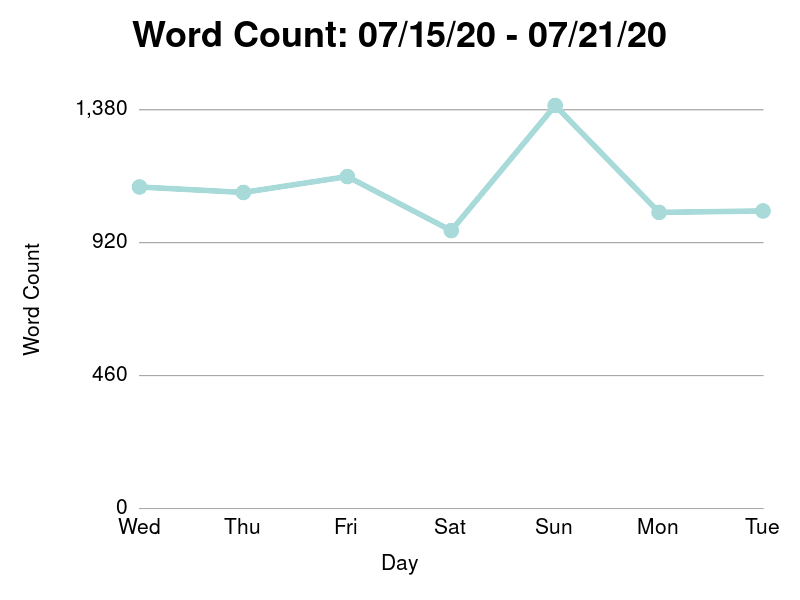
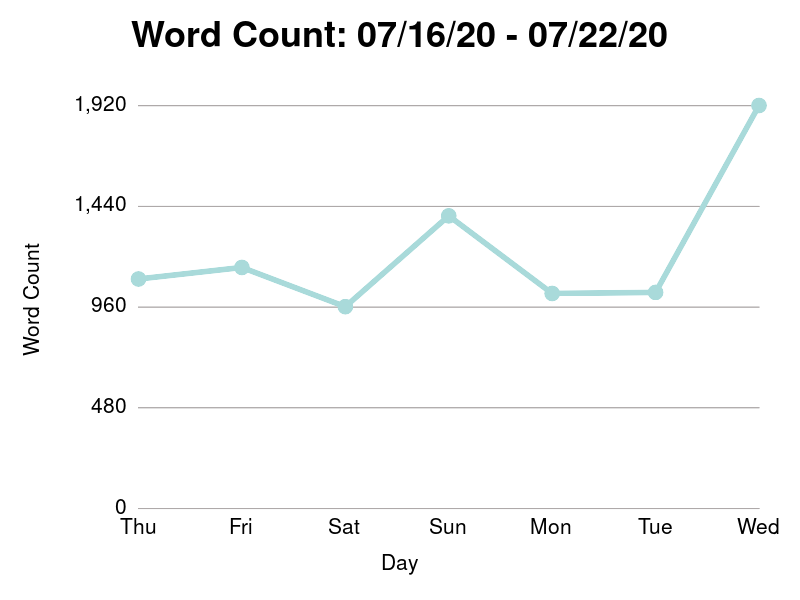
POST

diff --git a/_posts/2020-07-22-2020-07-22.html.md b/_posts/2020-07-22-2020-07-22.html.md
@@ -1,0 +1,228 @@
+---
+title: quiet time, marinade, and the last temptation of christ
+image: posts/2020-07-22.jpg
+---
+
+Dear Journal,
+
+Good morning, everyone.  How are your mosquito bites feeling today?
+That's how Rodney greeted me this morning, and even if mosquitos
+aren't a pressing problem for you, I still think that's just a nice
+thing to ask somebody.  Mosquitos can really put a damper on your day.
+
+Last night during a Zoom hangout with my family, Rodney hid on the bed
+underneath a blanket.  "Do you want to say 'hi' to Alice, dude?" I
+asked, expecting Rodney to come bouncing over to my computer.
+
+"No," said a small, blanketed voice.  "I need a lil' bit of quiet
+time."
+
+Later while putting him to bed, I used our usual round of evening
+questions to check up on his mosquito bites.  "Are your mosquito bites
+hot, or cold?" I asked, sticking to kid-friendly sensation questions.
+
+"Um..." said Rodney, pondering.  "Lil bit... pretty warm, I think," he
+said.
+
+"How do mosquito bites make you feel?" I asked.
+
+Rodney took much less time to field that question.  "Pretty grumpy,"
+he said.  I wasn't expecting such a succinct answer.
+
+"You feel grumpy?" I asked.  "Oh dude, is that why you wanted quiet
+time?"  Rodney nodded slowly with sad eyes.  We exchanged a long hug.
+
+In times like these, it's important to remember to ask for quiet time
+when you need it.  You can't move at the same speed every day.
+Sometimes you need a little extra solitude to tend to your mosquito
+bites, whatever form they may take.
+
+It's a beautiful day, isn't it?  The sun feels bright and warm today,
+and I feel like attacking a long TODO list.  Not to brag or anything,
+but I just did my own laundry, and I think the clean smell of a fresh
+new outfit is putting me in a mood.
+
+_Sip_.  We had a good day yesterday.  Marissa began the undertaking of
+cleaning our outside windows - undoubtedly the reason why it feels
+brighter here in our living room.  Rodney and I measured and trimmed
+replacement wood slats which will be installed in our backyard fence.
+We ran errands, took a nap, and finished things off with a big fajita
+dinner.
+
+And I learned something important yesterday while making fajitas.
+Even a forty-five minute marinade is better than no marinade at all.
+Being a last minute meal planner, I rarely leave myself with enough
+time to leave things in the fridge for four hours or start a meal the
+night before.  But since we have already made fajitas a few times this
+summer and I was in the mood to experiment, I tossed the sirloin steak
+in a plastic bag with olive oil, lime juice, garlic, cilantro, and
+other seasoning.
+
+I had my doubts.  I wasn't even planning on telling Marissa that I had
+tweaked one of her favorite recipes, but the difference was
+undeniable.  The meat was more tender, and the flavors were more
+thoroughly incorporated.  There might be something to this whole
+marinade thing after all.  Evidently, the fact that humans have
+probably marinating meat since the dawn of our civilization wasn't
+enough for me.  Being a millennial, I had to prove it to myself.
+
+We put Rodney to bed, muscled through some nightly quarantine
+workouts, then settled into the couch for movie night.  Last night we
+finished _The Last Temptation of Christ_, and _boy_ do I have some
+thoughts.
+
+Let me start off by saying that I had no idea what this movie was
+about.  In all honesty, I picked this movie expecting it to be a
+straight-forward Jesus biopic with maybe a tinge of weirdness,
+accounting for the Willem Dafoe effect.
+
+The film opens with large white text on a black screen - "This account
+is not based on the gospels, but a work of fiction exploring the life
+of Christ".  It may as well have also said _buckle up_.
+
+The movie wastes no time adding unsettling fictional elements to the
+life of Christ, opening with an anguished Jesus trying to live his
+life as a carpenter and deal with the voices he hears.  His close
+friend Judas berates him for making crosses for the Romans.  Jesus is
+wrestling with cultural identity, lack of conviction, and guilt over
+turning away the advances of Mary Magdalene, who has become a
+prostitute.
+
+Marissa and I paused the movie to regroup.
+
+"I just feel dirty watching this movie," said Marissa.
+
+"I feel the same," I replied.  "It hits different as a Christian,
+doesn't it?"
+
+"Is this fine to watch?  Is this _blasphemy_?" she asked?
+
+The following evening, we filed onto the couch to pick up where we
+left off.  "I have some thoughts," I said while climbing onto the
+cushion beside her.
+
+"So I think this film is definitely blasphemous," I said.  "In case
+it's not enough to trust our gut, it's a very vulgar depiction of
+Jesus.  But I think we can still learn something from this movie.  I'm
+still interested in what this movie is trying to say."
+
+We continued to discuss the movie.  Over a pair of beers, we decided
+that the movie was still worth studying.  After all, a critically
+thinking, modern day Christian doesn't bury their head in the sand at
+the first wind of offense.  I felt compelled to take it in, discern
+the deeper messages of the film, and form a more sophisticated opinion
+than what I was feeling - the feeling being _yuck_.
+
+As the film's Jesus wandered through the shuffled storyline of
+miracles and ministry, it continued to put our resolve to the test.
+It became clear that this wasn't just a casual mishandling of the
+Biblical account, but a deliberate contradiction.  "Forget the old
+law!" screams the film's Jesus.  "I AM NEW THE LAW."
+
+"It's weird that they keep repeating that," I said out of turn.
+"That's like the complete opposite of what Jesus said and meant.  He
+said 'I have not come to abolish the law, but to fulfill it.'  So that
+means someone had to read the Bible, understand it, and intentionally
+flip the dialog."
+
+We hit another breaking point.  There was a scene where, returning
+from a divine vision in the desert, Jesus pulls his heart out of his
+chest and holds it up before the disciples.  We were so appalled that
+we broke out in a chuckle.
+
+"So I've been thinking really hard about this movie," I said rubbing
+my eyes.  "And I'm not sure what _that_ was supposed to mean."
+
+"This is just awful," laughed Marissa.
+
+Luckily, there were no more mortal combat inspired scenes, and in the
+tail end of the movie, things got pretty fascinating.  As the film's
+Jesus hung on the cross, an eerie silence fell over the jeering crowd
+and a little girl approached him.  "I'm your guardian angel," she
+explained.  "You've suffered enough, and God says you don't have to be
+sacrificed."  She delicately pulls the nails out from the cross and
+helps Jesus down, leading him to a cliff overlooking beautiful rolling
+hills bathing in sunlight.  "Now you can see the world for what it
+truly is," she said.
+
+At this point, I sensed a plot twist coming.  The scene just resembled
+the temptation of Christ in the wilderness a little too much.  The
+little girl remained with the film's Jesus into his old age, following
+him as he had children and lived a regular life.
+
+The film's Jesus even happens to encounter Paul, in the middle of
+giving a passionate sermon about his own conversion on the road to
+Damascus.  "I heard the voice of Jesus Christ," yells Paul.  "He asked
+'why are you persecuting me?'  And I decided to go out and spread the
+good news that Christ died, rose again, and conquered death."
+
+"Ah," I snickered.  "More proof that the author is very familiar with
+the actual story."
+
+Following Paul's sermon, the film's Jesus confronts Paul.  "I did
+those things," said Jesus.  "And I never died.  I never rose again.
+I'm a regular man now."
+
+The scene takes a dark turn.  Paul goes on to explain that it doesn't
+matter if he's really Jesus, and that Jesus is whatever he tells the
+people.  "You underestimate how much these people really need God,"
+says the film's evil version of Paul.  "They will do whatever if takes
+to please God.  Even if they have to die."
+
+The film shows us an aging Jesus on his deathbed.  The disciples file
+into his room and angrily confront Jesus.  "You were supposed to be
+crucified," says Judas.  "You are a traitor."  I was at least happy
+that they finally cashed in on the irony garnered from making Judas
+Jesus' closest friend and having him utter the words _trator_.
+
+The girl in the corner of the room vanishes, transforming into a
+flame.  A menacing voice cackles.  "There was no sacrifice, there is
+no salvation," laughs Satan.  "Now die like a man."
+
+Feeling probably the saddest I've ever felt, I held on as the film
+tried to turn things around.  Jesus crawls out of his house, and while
+overlooking a burning, pillaged Jerusalem, he repents.  Just as Christ
+cries out "I want to be the Messiah," he is instantly transported back
+to the cross.  He smiles, and cries "it is accomplished."
+
+Of all the horror movies I've sat through, this movie was the
+scariest.  The final ending had my stomach twisting in knots, and a
+cold sweat running down my forehead.
+
+"You know technically that was the last temptation of Christ," I said
+as the film credits rolled.  "The Bible didn't say it was the devil,
+but I think the people taunted him to have God send his angels to take
+him down from the cross."  As we discussed the twist ending, the point
+of the film began to crystallize.
+
+Christ was tempted by the devil, both in the wilderness before he
+began his ministry and indirectly throughout his time on earth, all
+the way to the bitter end when a hateful crowd that gathered to watch
+him die.  And the mere fact that he was tempted implies that the
+temptation was _real_.  In every other straight laced depiction of
+Jesus (_The Passion of the Christ_ comes to mind), Jesus is protected
+by Biblical plot immunity.  The presense of evil, temptation, and the
+devil, no matter how artful, just isn't that scary.
+
+But in a film that was intentionally contradicting the Bible - where
+_anything_ could happen - I was gripped with fear.  Christ cried in
+the garden on the night before his death and begged God to take the
+cup of suffering from him.  Christ was tempted to climb down from the
+cross.
+
+_The Last Temptation of Christ_ succeeds in portraying the humanity of
+a wholly God, wholly human Jesus, albeit a little too much on the
+human side.  Jesus never wavered in his message.  He never had
+difficulty finding his purpose.  He never gave into temptation.  And
+thankfully he never pulled his beating heart out of his chest to make
+a point.  But he felt real fear, doubt, despair, and temptation just
+as we do.
+
+Even for a lesson like this, _The Last Temptation_ is a difficult
+movie to sit through.  I'm still feeling a little queasy from it.  But
+if that's too much of a reach, than at least you can be grateful that
+our gospel is not a watered down message of _changing the world with
+love_ crafted in the vacuum of fiction.  Our gospel is real, living,
+and hopeful.
+
+Thanks for stopping by today.  I hope you have a wonderful day today.
